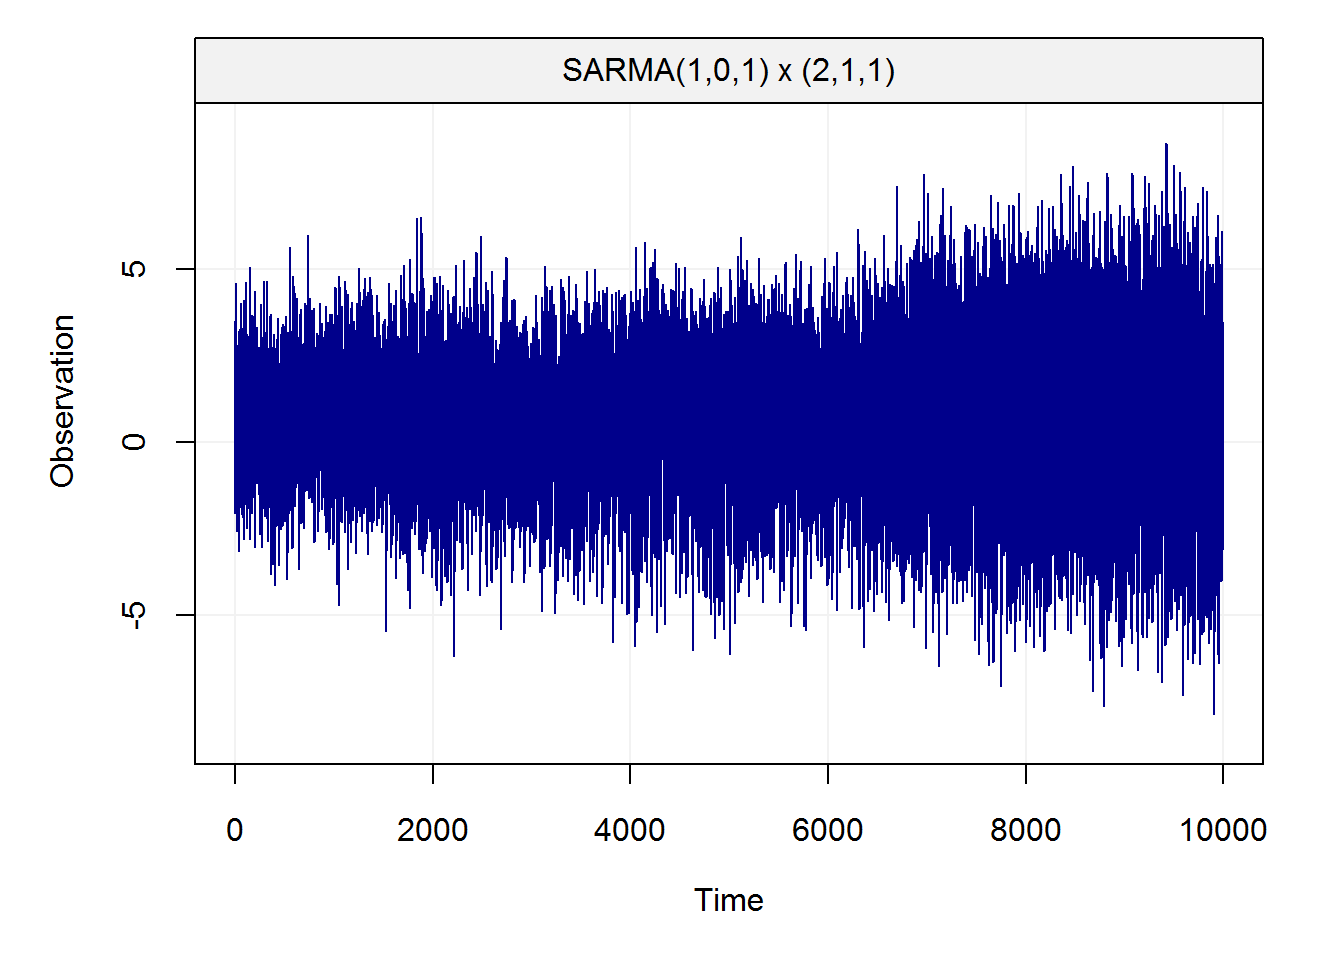
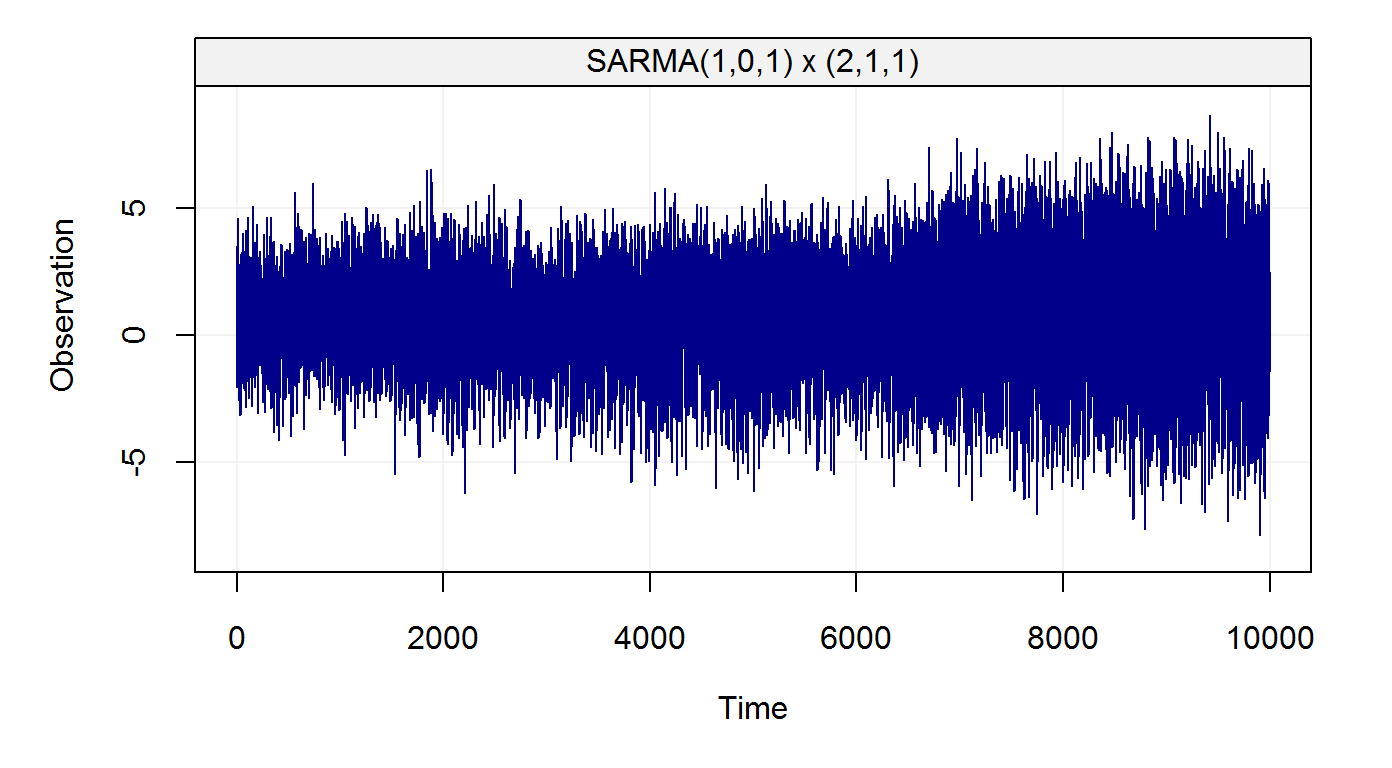
add legend + finalize website #1

diff --git a/docs/articles/sim_models.html b/docs/articles/sim_models.html
@@ -123,10 +123,14 @@ sarima =<span class="st"> </span><span class="kw"><a href="../reference/gen_gts.
                         <span class="dt">sigma2 =</span> <span class="fl">1.5</span>, <span class="dt">s =</span> <span class="dv">12</span>))
 <span class="co"># Plot simulation of SARIMA(1,0,1)x(2,1,1)[12]</span>
 <span class="kw">plot</span>(sarima)</code></pre></div>
-<p><img src="sim_models_files/figure-html/unnamed-chunk-3-1.png" width="672"></p>
+<div class="figure" style="text-align: center">
+<img src="sim_models_files/figure-html/unnamed-chunk-3-1.png" alt="Figure 1: Plot of simulated SARIMA(1,0,1)x(2,1,1)[12] process" width="696"><p class="caption">
+Figure 1: Plot of simulated SARIMA(1,0,1)x(2,1,1)[12] process
+</p>
+</div>
 <p>The <code>simts</code> package therefore allows users to easily simulate from a wide variety of models, but does not limit itself to these basic models. Indeed, under some restrictions, these models can be combined in different ways to deliver many state-space (latent) models which can be represented as the sum of basic models.</p>
 <p><code>simts</code>’s user friendly interface allows for easy construction of such linear state-space models. In fact, to specify that a certain model is a combination of different models, all that is needed is the “+” symbol between them.</p>
-<p>Supposing that different AR1 processes are present in the state-space model, the syntax to insert “k” of these models in a state-space model is <code>k\*AR1()</code>. So, for example, the sum of three AR1 models, a random walk and a white noise process can be given by a simple expression: <code>3\*AR1()+RW()+WN()</code>.</p>
+<p>Supposing that different AR1 processes are present in the state-space model, the syntax to insert “k” of these models in a state-space model is <code>k*AR1()</code>. So, for example, the sum of three AR1 models, a random walk and a white noise process can be given by a simple expression: <code>3*AR1()+RW()+WN()</code>.</p>
 <p>Examples of simulating such models are generated below.</p>
 <div class="sourceCode"><pre class="sourceCode r"><code class="sourceCode r"><span class="co"># Generate a ARMA(2,1) + WN()  </span>
 arma_wn_model =
@@ -135,7 +139,11 @@ arma_wn_model =
 arma_wn_sim =<span class="st"> </span><span class="kw"><a href="../reference/gen_gts.html">gen_gts</a></span>(<span class="dt">n =</span> n, <span class="dt">model  =</span> arma_wn_model)
 <span class="co"># Plot simulation of ARMA(2,1) + WN()</span>
 <span class="kw">plot</span>(arma_wn_sim)</code></pre></div>
-<p><img src="sim_models_files/figure-html/unnamed-chunk-4-1.png" width="696" style="display: block; margin: auto;"></p>
+<div class="figure" style="text-align: center">
+<img src="sim_models_files/figure-html/unnamed-chunk-4-1.png" alt="Figure 2: Plot of simulated ARMA(2,1) + WN() process" width="696"><p class="caption">
+Figure 2: Plot of simulated ARMA(2,1) + WN() process
+</p>
+</div>
 </div>
 <div id="latent-time-series" class="section level2">
 <h2 class="hasAnchor">
@@ -149,7 +157,11 @@ sarma_wn_sim =<span class="st"> </span><span class="kw"><a href="../reference/ge
 
 <span class="co"># Plot simulation of SARMA() + WN(2) </span>
 <span class="kw">plot</span>(sarma_wn_sim)</code></pre></div>
-<p><img src="sim_models_files/figure-html/unnamed-chunk-5-1.png" width="696" style="display: block; margin: auto;"></p>
+<div class="figure" style="text-align: center">
+<img src="sim_models_files/figure-html/unnamed-chunk-5-1.png" alt="Figure 3: Plot of breakdown of underlying process and resulting latent process" width="696"><p class="caption">
+Figure 3: Plot of breakdown of underlying process and resulting latent process
+</p>
+</div>
 </div>
 </div>
   </div>

diff --git a/docs/articles/sim_data.html b/docs/articles/sim_data.html
@@ -89,7 +89,11 @@ hydro =<span class="st"> </span><span class="kw"><a href="../reference/gts.html"
             <span class="dt">name_ts =</span> <span class="st">"Precipitation"</span>, <span class="dt">data_name =</span> <span class="st">"Hydrology data"</span>)
 <span class="co"># Plot hydro simulation</span>
 <span class="kw">plot</span>(hydro)</code></pre></div>
-<p><img src="sim_data_files/figure-html/unnamed-chunk-2-1.png" width="696" style="display: block; margin: auto;"></p>
+<div class="figure" style="text-align: center">
+<img src="sim_data_files/figure-html/unnamed-chunk-2-1.png" alt="Figure 1: Plot of the Hydrology data from 1907" width="696"><p class="caption">
+Figure 1: Plot of the Hydrology data from 1907
+</p>
+</div>
 </div>
 <div id="personal-savings" class="section level3">
 <h3 class="hasAnchor">
@@ -101,19 +105,28 @@ savingrt =<span class="st"> </span><span class="kw"><a href="../reference/gts.ht
             <span class="dt">name_ts =</span> <span class="st">"Saving Rates"</span>, <span class="dt">data_name =</span> <span class="st">"US Personal Saving Rates"</span>)
 <span class="co"># Plot savingrt simulation</span>
 <span class="kw">plot</span>(savingrt)</code></pre></div>
-<p><img src="sim_data_files/figure-html/unnamed-chunk-3-1.png" width="696" style="display: block; margin: auto;"></p>
+<div class="figure" style="text-align: center">
+<img src="sim_data_files/figure-html/unnamed-chunk-3-1.png" alt="Figure 2: Plot of Personal Savings as DPI from 1959" width="696"><p class="caption">
+Figure 2: Plot of Personal Savings as DPI from 1959
+</p>
+</div>
 </div>
 <div id="nile-river-flow" class="section level3">
 <h3 class="hasAnchor">
 <a href="#nile-river-flow" class="anchor"></a>Nile River Flow</h3>
 <div class="sourceCode"><pre class="sourceCode r"><code class="sourceCode r"><span class="co"># Load Nile dataset</span>
 Nile =<span class="st"> </span>datasets::Nile
+<span class="co"># Simulate based on data</span>
 nile =<span class="st"> </span><span class="kw"><a href="../reference/gts.html">gts</a></span>(<span class="kw">as.vector</span>(Nile), <span class="dt">start =</span> <span class="dv">1871</span>, <span class="dt">end =</span> <span class="dv">1970</span>, <span class="dt">freq =</span> <span class="dv">1</span>, 
            <span class="dt">unit_ts =</span> <span class="kw">bquote</span>(<span class="kw">paste</span>(<span class="dv">10</span>^<span class="dv">8</span>,<span class="st">" "</span>,m^<span class="dv">3</span>)), <span class="dt">name_ts =</span> <span class="st">"Flow"</span>, 
            <span class="dt">name_time =</span> <span class="st">"Years"</span>, <span class="dt">data_name =</span> <span class="st">"Annual Flow of river Nile"</span>)
 <span class="co"># Plot Nile simulation </span>
 <span class="kw">plot</span>(nile)</code></pre></div>
-<p><img src="sim_data_files/figure-html/unnamed-chunk-4-1.png" width="696" style="display: block; margin: auto;"></p>
+<div class="figure" style="text-align: center">
+<img src="sim_data_files/figure-html/unnamed-chunk-4-1.png" alt="Figure 3: Plot of Annual Nile river flow from 1871-1970" width="696"><p class="caption">
+Figure 3: Plot of Annual Nile river flow from 1871-1970
+</p>
+</div>
 </div>
 </div>
 </div>

diff --git a/docs/index.html b/docs/index.html
@@ -74,16 +74,16 @@
 <li>Visualize breakdown of the underlying processes</li>
 </ul>
 <p>To see what <code>simts</code> is capable of, please refer to the vignettes.</p>
-</div>
-<div id="install-instructions" class="section level1">
-<h1 class="hasAnchor">
-<a href="#install-instructions" class="anchor"></a>Install Instructions</h1>
-<p>To install the <code>simts</code> package, there is currently one option: <a href="https://github.com/SMAC-Group/simts/">GitHub</a>.</p>
-<div id="installing-the-package-through-github" class="section level2">
+<div id="install-instructions" class="section level2">
 <h2 class="hasAnchor">
-<a href="#installing-the-package-through-github" class="anchor"></a>Installing the package through GitHub</h2>
+<a href="#install-instructions" class="anchor"></a>Install Instructions</h2>
+<p>To install the <code>simts</code> package, there is currently one option: <a href="https://github.com/SMAC-Group/simts/">GitHub</a>.</p>
+<div id="installing-the-package-through-github" class="section level3">
+<h3 class="hasAnchor">
+<a href="#installing-the-package-through-github" class="anchor"></a>Installing the package through GitHub</h3>
 <p>For users who are interested in having the latest developments, this option is ideal. Though, more dependancies are required to run a stable version of the package. Most importantly, users <strong>must</strong> have a compiler installed on their machine that is compatible with R (e.g. Clang).</p>
 <p><em>The setup to obtain the development version of <code>simts</code> is platform dependent.</em></p>
+</div>
 <div id="requirements-and-dependencies" class="section level3">
 <h3 class="hasAnchor">
 <a href="#requirements-and-dependencies" class="anchor"></a>Requirements and Dependencies</h3>
@@ -102,7 +102,6 @@
 
 <span class="co"># Install the package from GitHub without Vignettes/User Guides</span>
 devtools::<span class="kw">install_github</span>(<span class="st">"SMAC-Group/simts"</span>)</code></pre></div>
-<p>Please report any bugs to <a href="mailto:contact@smac-group.com">contact@smac-group.com</a></p>
 </div>
 </div>
 </div>

diff --git a/docs/reference/plot.lts.html b/docs/reference/plot.lts.html
@@ -133,6 +133,10 @@
       <li><a href="#value">Value</a></li>
           </ul>
 
+    <h2>Author</h2>
+    
+Stephane Gurrier and Justin Lee
+
   </div>
 </div>
 

diff --git a/README.md b/README.md
@@ -14,12 +14,11 @@ The Time Series Simulation (`simts`) R package generates various time series obj
 To see what `simts` is capable of, please refer to the vignettes.
 
 Install Instructions
-====================
+--------------------
 
 To install the `simts` package, there is currently one option: [GitHub](https://github.com/SMAC-Group/simts/).
 
-Installing the package through GitHub
--------------------------------------
+### Installing the package through GitHub
 
 For users who are interested in having the latest developments, this option is ideal. Though, more dependancies are required to run a stable version of the package. Most importantly, users **must** have a compiler installed on their machine that is compatible with R (e.g. Clang).
 
@@ -58,5 +57,3 @@ install.packages(c("RcppArmadillo","devtools","knitr","rmarkdown"))
 # Install the package from GitHub without Vignettes/User Guides
 devtools::install_github("SMAC-Group/simts")
 ```
-
-Please report any bugs to <contact@smac-group.com>
